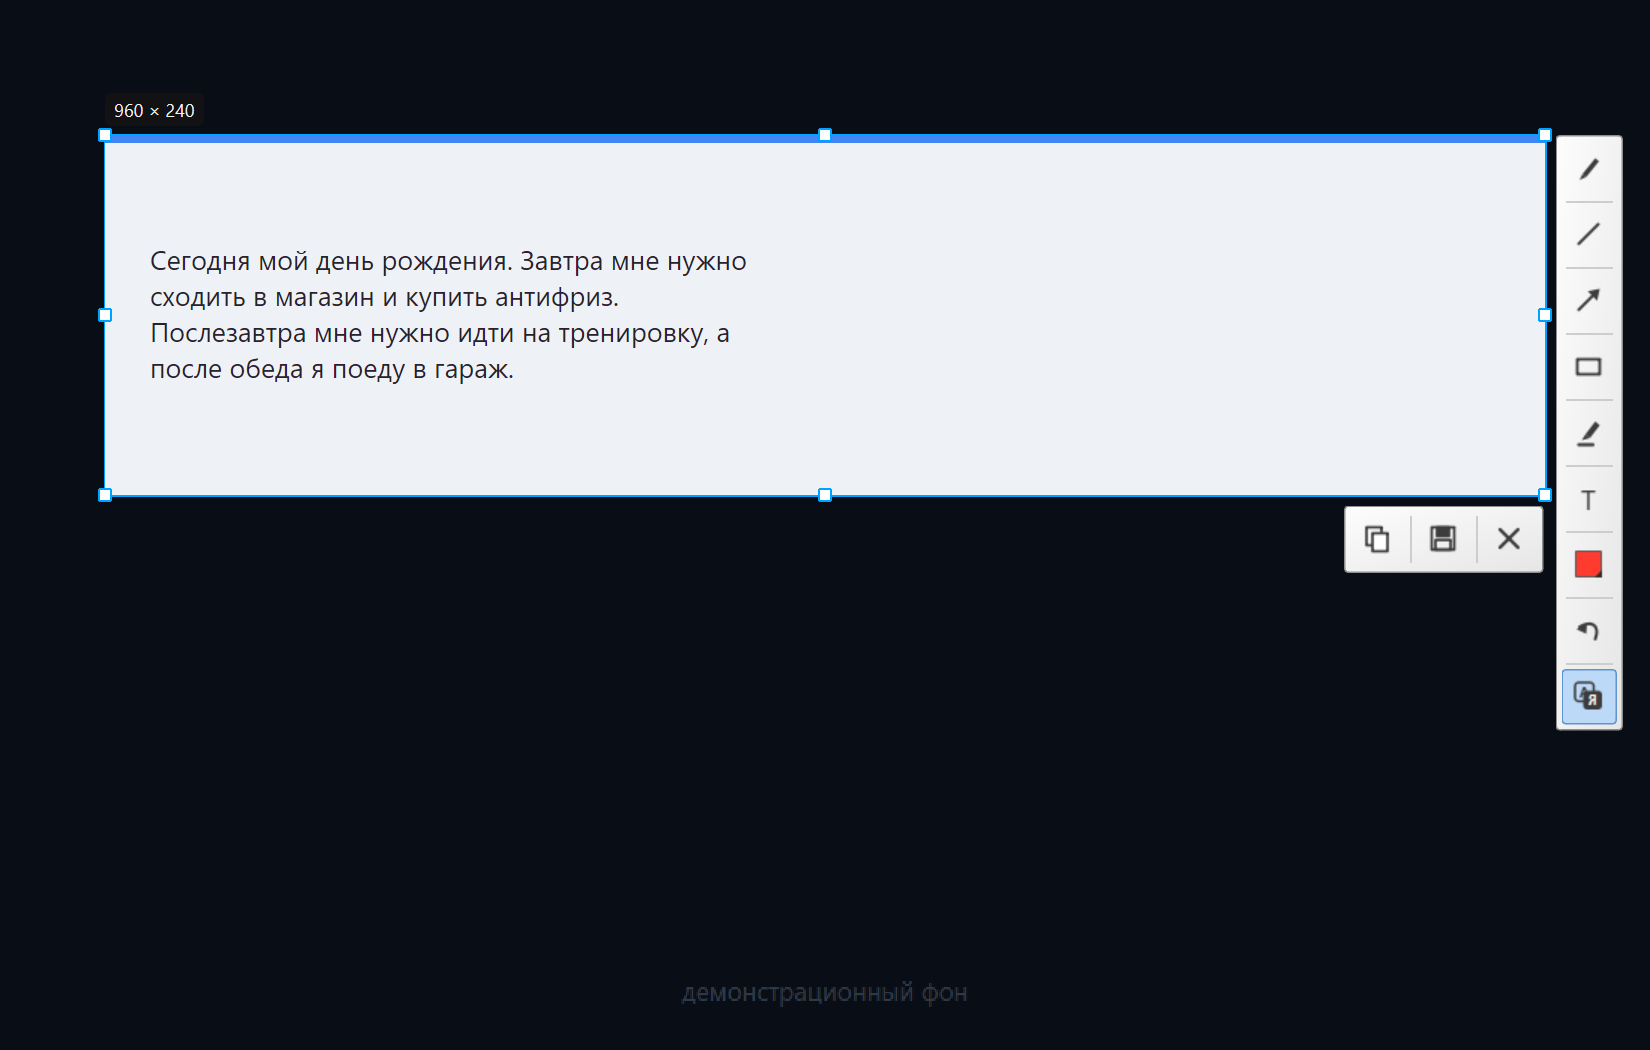
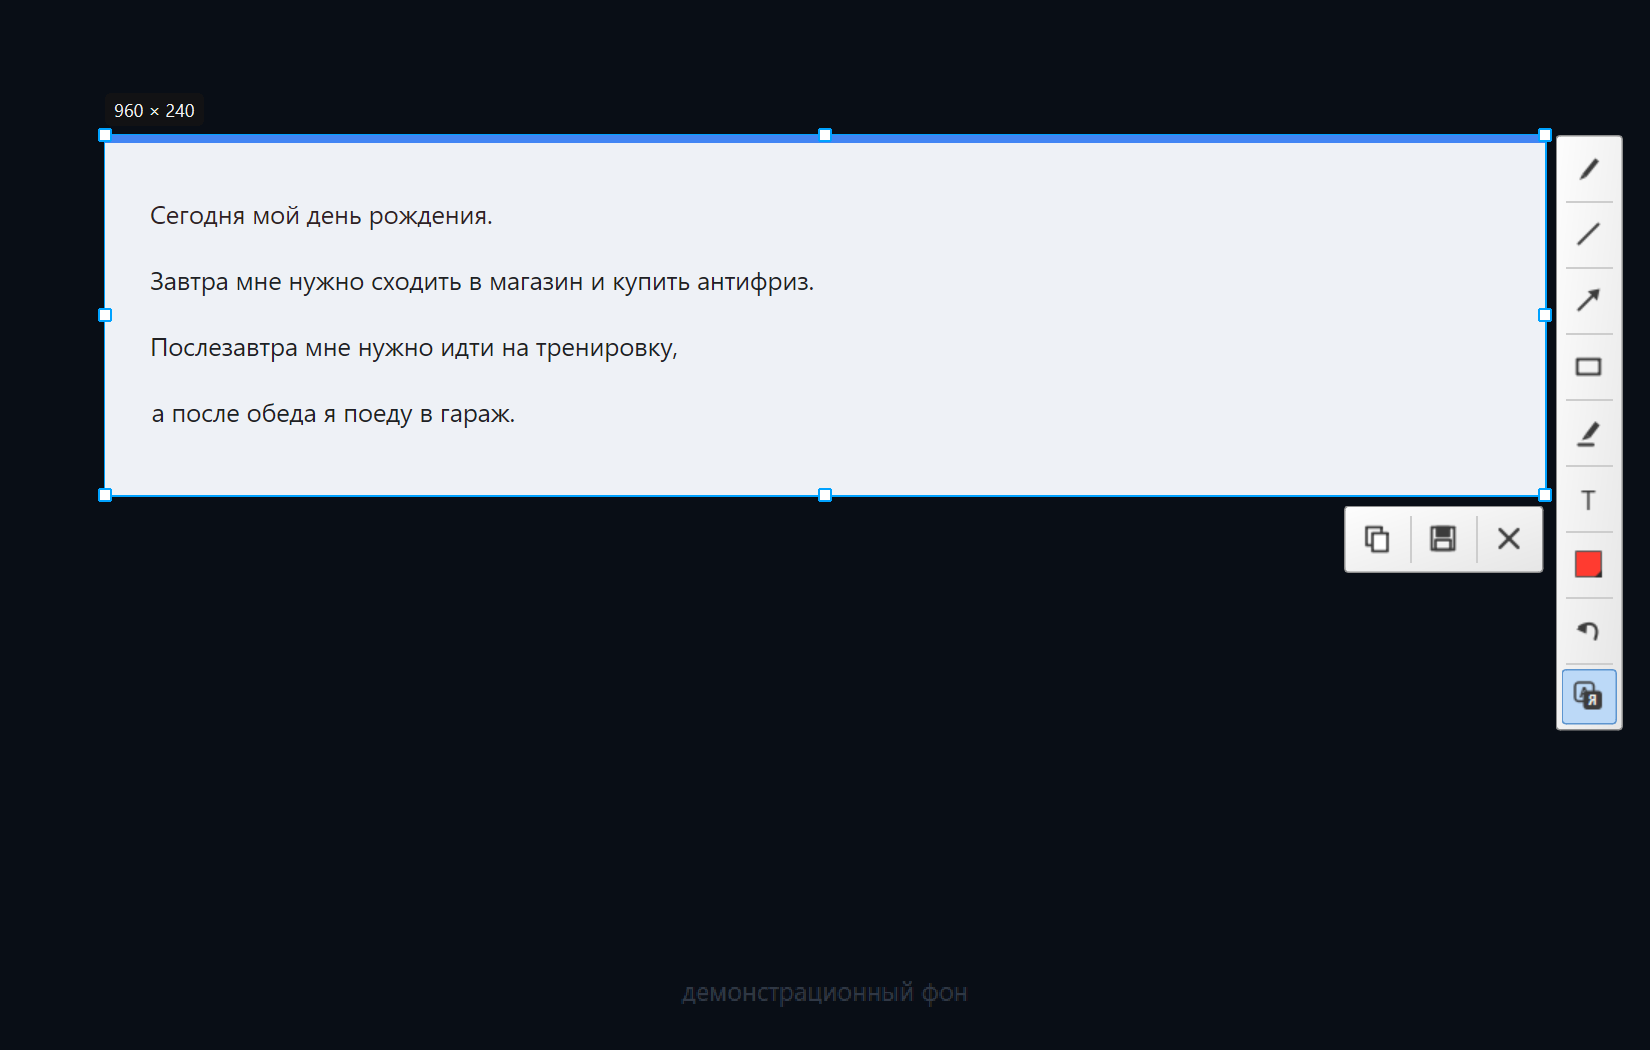
Русский README и картинки догнали изменения 1.1.4-1.1.5
В README.ru.md оставалось старое описание: перевод «абзацами» и ни слова о
том, где теперь стоит отсчёт. Заодно генератор картинок для документации
собирает участки так же, как сама программа, и docs/translate.png показывает
нынешнее поведение — отдельная подложка на каждую строку.

Changed region(s): [[0.0927, 0.2438, 0.4945, 0.4267], [0.0927, 0.1829, 0.3091, 0.2133]]

diff --git a/tools/make_docs_images.py b/tools/make_docs_images.py
@@ -29,7 +29,7 @@ from pyshot.i18n import set_language  # noqa: E402
 from pyshot.overlay import DRAG_NONE, Overlay  # noqa: E402
 from pyshot.settings_dialog import SettingsDialog  # noqa: E402
 from pyshot.shapes import Shape  # noqa: E402
-from pyshot.translate import group_lines, recognize  # noqa: E402
+from pyshot.translate import build_units, recognize  # noqa: E402
 from pyshot.translation_layer import build_layer  # noqa: E402
 
 DOCS = ROOT / "docs"
@@ -144,7 +144,7 @@ def main() -> None:
     ]
     crop = translated.selection_image()
     found, _ = recognize(crop, "en")
-    ready = group_lines(found)
+    ready = build_units(found, "ru")
     if len(ready) == 1:                      # строки склеились в один абзац
         ready[0].translation = " ".join(russian)
     else:

diff --git a/README.ru.md b/README.ru.md
@@ -173,7 +173,10 @@ python main.py
 или нарисуйте новую — и показывает панель с задержкой и кнопкой «Снять». Жмёте —
 окно выделения исчезает сразу, а отсчёт идёт уже по живому экрану: можно открыть
 меню трея, контекстное меню или подсказку и не трогать мышь. По нулям этот
-прямоугольник сохраняется.
+прямоугольник сохраняется. Отсчёт стоит посреди того кадра, который сейчас
+снимется, и растёт вместе с ним: на весь экран цифры крупные, на маленькой
+области — маленькие, так что он не уедет на другой монитор и не закроет собой
+весь снимок.
 
 Поставьте таймер в положение **нет** — «Снять» сработает мгновенно. Рамка
 хранится в настройках и переживает перезапуск.
@@ -207,8 +210,10 @@ python main.py
 1. **Распознавание — офлайн**, встроенным движком Windows. Никаких сторонних
    программ ставить не нужно, снимок никуда не отправляется. Нужны языковые
    пакеты Windows: *Параметры → Время и язык → Язык и регион*.
-2. Строки склеиваются в абзацы, чтобы перевод получался связным, а не
-   порванным по строкам.
+2. Строки целиком на чужом языке склеиваются в абзацы, чтобы перевод
+   получался связным, а не порванным по строкам. А в строке, где чужие слова
+   стоят вперемешку со своими, берутся только эти вставки, и подложка
+   ложится ровно по ним.
 3. **Перевод — через интернет.** Уходит только распознанный текст, не
    картинка. При первом нажатии программа спрашивает разрешение, а в
    настройках это отдельная галочка.
@@ -225,7 +230,11 @@ python main.py
 чужой язык, иначе он видит кириллицу, объявляет весь текст русским и
 возвращает его без изменений.
 
-Русские слова остаются нетронутыми, английские становятся русскими.
+Русские слова остаются нетронутыми, английские становятся русскими —
+буквально: подложка накрывает только английский участок, а русский текст
+вокруг — это исходные пиксели снимка. Короткие вставки (`fork 7`, `Max`) и
+имена вроде `TractPart_Project` или `config.json` не трогаются: переводить
+там нечего, а подложка закрыла бы как раз то, что человек ищет.
 
 ### Сервисы перевода
 
